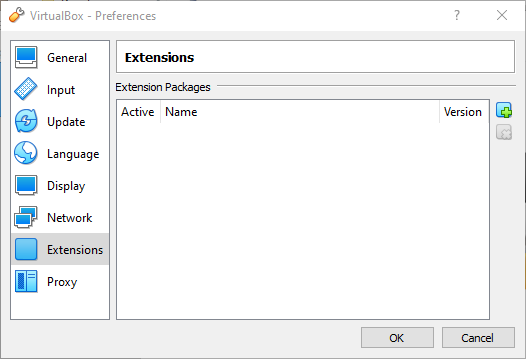
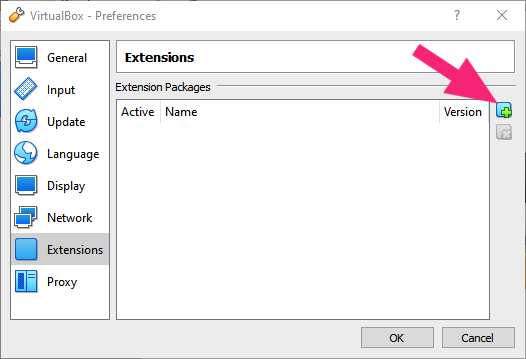
Update win installation

Changed region(s): [[0.7909, 0.1226, 0.943, 0.3064], [0.0304, 0.5209, 0.0608, 0.5515]]

diff --git a/virtual-box-win.html b/virtual-box-win.html
@@ -135,6 +135,12 @@
 <p>Install the file that ends with <code>.exe</code> to install virtual box. Most likely, you will have to right-click and select to Open it as an Administrator.</p>
 
 <div class="figure">
+<img src="figures/teknostart/vbwin/vb-0.png" alt="" width="100%"/>
+<span name="figures/teknostart/vbwin/vb-0.png">&nbsp;</span>
+<aside name="figures/teknostart/vbwin/vb-0.png"><p>
+</p></aside>
+</div>
+<div class="figure">
 <img src="figures/teknostart/vbwin/vb-1.png" alt="" width="100%"/>
 <span name="figures/teknostart/vbwin/vb-1.png">&nbsp;</span>
 <aside name="figures/teknostart/vbwin/vb-1.png"><p>

diff --git a/pages/virtual-box-win.md b/pages/virtual-box-win.md
@@ -5,6 +5,12 @@ Install the file that ends with `.exe` to install virtual box. Most likely, you 
 
 ---
 type: figure
+source: figures/teknostart/vbwin/vb-0.png
+caption: ""
+---
+
+---
+type: figure
 source: figures/teknostart/vbwin/vb-1.png
 caption: ""
 ---
